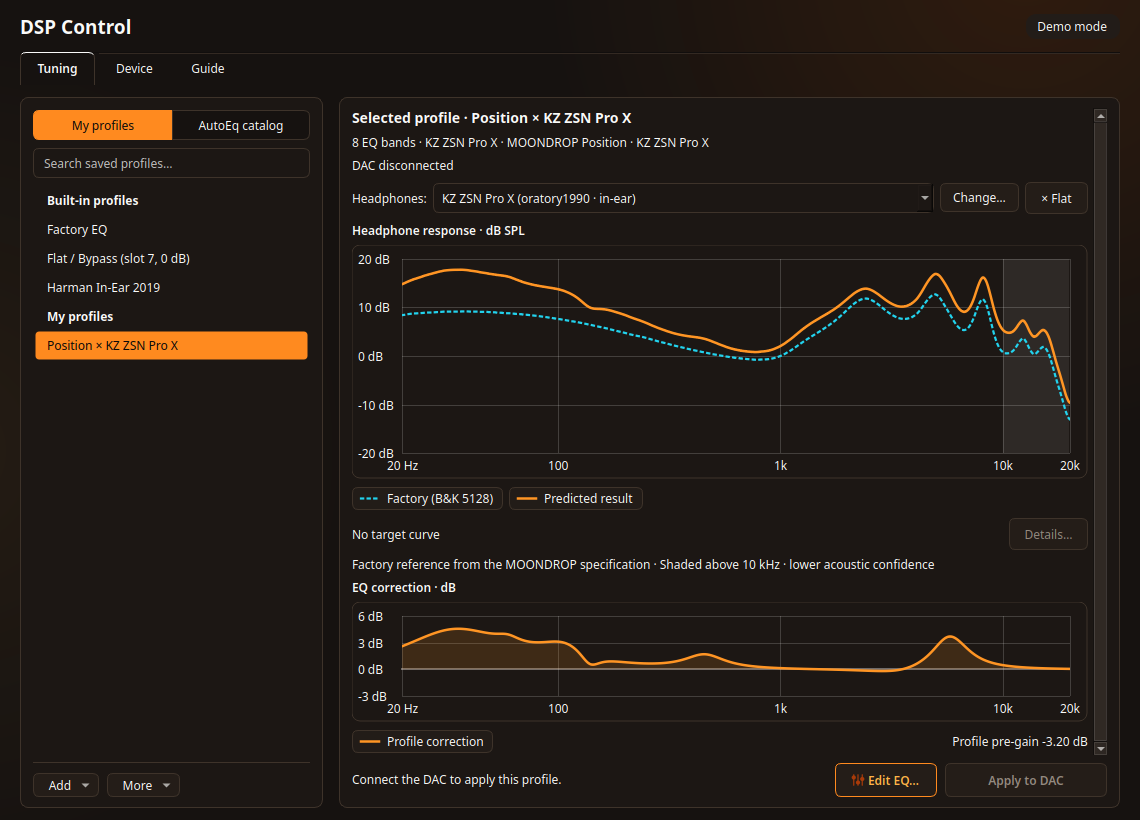
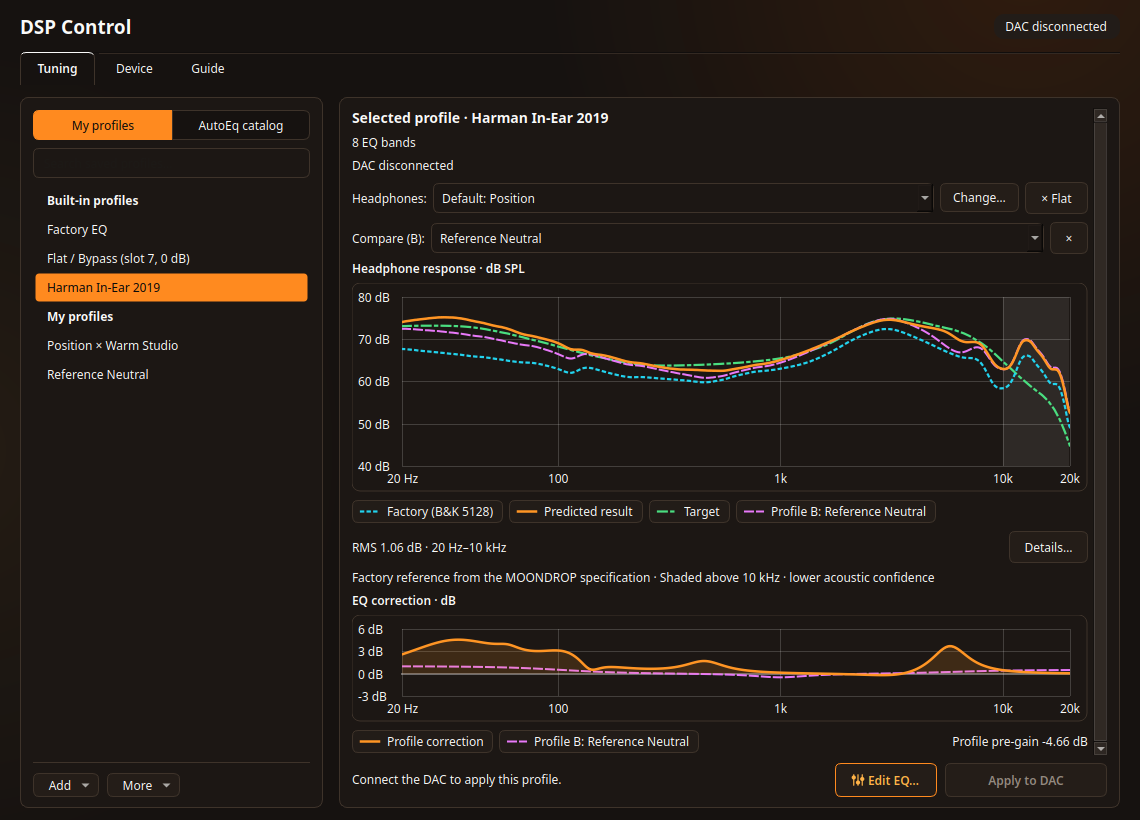
docs: update Guide, READMEs, and screenshots for v0.6.0 Stage 1 (#38)

diff --git a/README.pl.md b/README.pl.md
@@ -103,12 +103,12 @@ Manifest ([`pl.innovibe.DspControl.json`](pl.innovibe.DspControl.json)) używa `
 | Funkcja | Oficjalny Web Hub | DSP Control |
 |---|---|---|
 | EQ parametryczny (`PK / LSQ / HSQ / LP / HP`) + Pre-gain | Tylko `PK / LP / HP` (półki wyłączone na Position) | **Odblokowuje `LSQ / HSQ` (`1× LSQ + 1× HSQ + 6× PK`), natywny USB HID `0x4B`, offline** |
-| Interaktywny wykres EQ i zapas do przesteru | Tylko suwaki | **Przeciąganie punktów na wykresie (Hz/dB/kółko Q) + auto pre-gain + Wyzeruj EQ** |
-| Odsłuch na żywo (`Live preview`) | Tak | **Tak — auto-odsłuch + `A/B: Bypass` (płaski 0 dB) + bezpieczne przywracanie** |
+| Interaktywny wykres EQ i zapas do przesteru | Tylko suwaki | **Przeciąganie punktów na wykresie (Hz/dB/kółko Q), Mute/Solo pasm, szybkie Makro barwy (`Bas / Średnica / Góra / Tilt`), auto pre-gain + Wyzeruj EQ** |
+| Odsłuch na żywo (`Live preview`) | Tak | **Tak — auto-odsłuch + wybór celu `A/B` (`Flat 0 dB` / `Stan wyjściowy` / `Profil B`) + bezpieczne przywracanie** |
 | Wbudowany optymalizator AutoEq | Podstawowe presety | **Indeks 6800+ offline + Bas / Tilt / Tylko PK + zakres + Drag & Drop** |
-| Porównanie z obecnym DSP i interaktywna legenda | Nie | **Krzywa `Obecnie w DSP` na obu wykresach, ukrywanie/solo pigułek, `Hz / dB / Δ dB`** |
+| Porównanie z obecnym DSP i Profilem B | Nie | **Krzywa `Obecnie w DSP` lub dowolny `Profil B` na obu wykresach, ukrywanie/solo pigułek, `Hz / dB / Δ dB`** |
 | Wzmocnienie wyjścia (`-18…0 dB`) i mikrofonu | Tak | **Tak, z opcjonalnym zapisem w profilu** |
-| Biblioteka lokalna vs flash DAC-a | Ograniczone | **Pełna biblioteka, pamięć profilu per DAC, auto-sync słuchawek, wklejanie/import Equalizer APO** |
+| Biblioteka lokalna vs flash DAC-a | Ograniczone | **Pełna biblioteka, eksport/import paczek `.zip` (również Drag & Drop), pamięć profilu per DAC, auto-sync słuchawek, wklejanie/import Equalizer APO** |
 | Monitor strumienia UAC2 i próbkowania PipeWire | Nie | **Tak (`44,1–384 kHz` + odczyt głębi bitowej ALSA)** |
 | Weryfikacja zapisu i diagnostyka | Podstawowa | **Weryfikacja przed/po zapisie flash, Przywróć poprzedni, bezrootowy `--diagnose`** |
 | Motywy, język, Przewodnik i aktualizacje | Tylko web | **Motywy InnoVibe Ciemny i Jasny, PL / EN, stopka aktualizacji i kopiowanie komendy Flatpak** |
@@ -118,7 +118,7 @@ Manifest ([`pl.innovibe.DspControl.json`](pl.innovibe.DspControl.json)) używa `
 ## Zrzuty ekranu
 
 ### 1. Strojenie i podgląd charakterystyki
-**Wybrany profil** i **Aktywny w DAC-u** są wyraźnie rozdzielone, dopóki nie klikniesz **Wgraj do DAC-a** (po zapisie przycisk zamienia się w **Przywróć poprzedni**). **Charakterystyka słuchawek** porównuje krzywą **Fabryczną (B&K 5128)**, **Cel**, **Przewidywany wynik** oraz **Obecnie w DSP**, a **Korekcja EQ** pokazuje odpowiedź filtrów przy `96 kHz`.
+**Wybrany profil** i **Aktywny w DAC-u** są wyraźnie rozdzielone, dopóki nie klikniesz **Wgraj do DAC-a** (po zapisie przycisk zamienia się w **Przywróć poprzedni**). **Charakterystyka słuchawek** porównuje krzywą **Fabryczną (B&K 5128)**, **Cel**, **Przewidywany wynik** oraz **Obecnie w DSP** (lub dowolny **Profil B** wybrany z paska **Porównaj (B)** albo z menu kontekstowego listy), a **Korekcja EQ** pokazuje odpowiedź filtrów przy `96 kHz`. Przez **Dodaj ▾ / Więcej ▾** (lub przeciągnięcie pliku `.zip`) wyeksportujesz i zaimportujesz całą bibliotekę profili.
 
 <details>
 <summary>Strojenie w małym oknie (640×620)</summary>
@@ -137,7 +137,7 @@ Filtruj tysiące pomiarów według **Źródła**, **Typu słuchawek** i **Zakres
 <br>
 
 ### 3. Edytor EQ i odsłuch na żywo
-Przeciągaj punkty bezpośrednio na wykresie **Korekcja EQ**, zmieniaj Q kółkiem myszy i użyj **Ustaw automatycznie** do doboru pre-gainu. Przy podłączonym DAC-u **Odsłuch na żywo** uruchamia się automatycznie i bezpiecznie przywraca stan po anulowaniu.
+Przeciągaj punkty bezpośrednio na wykresie **Korekcja EQ**, zmieniaj Q kółkiem myszy, wyciszaj (`Wł.`) lub tymczasowo podsłuchuj (`S`) wybrane pasma, kształtuj brzmienie w zwijanym panelu **Szybka korekta barwy (Makro)** (`Bas / Średnica / Góra / Tilt`) i użyj **Ustaw automatycznie** do doboru pre-gainu. Przy podłączonym DAC-u **Odsłuch na żywo** uruchamia się automatycznie, pozwala porównywać przez **A/B** z **Flat**, **Stanem wyjściowym** lub **Profilem B** i bezpiecznie przywraca stan po anulowaniu.
 
 ![Edytor EQ](docs/screenshots/pl/04-eq-editor.png)
 

diff --git a/README.md b/README.md
@@ -103,12 +103,12 @@ The manifest ([`pl.innovibe.DspControl.json`](pl.innovibe.DspControl.json)) requ
 | Feature | Official Web Hub | DSP Control |
 |---|---|---|
 | Parametric EQ (`PK / LSQ / HSQ / LP / HP`) + Pre-gain | `PK / LP / HP` only (shelves disabled on Position) | **Unlocks `LSQ / HSQ` (`1× LSQ + 1× HSQ + 6× PK`), native USB HID `0x4B`, offline** |
-| Interactive EQ Curve & Headroom | Sliders only | **Drag points on plot (Freq / Gain / Wheel Q) + Auto Headroom & 1-click Zero EQ** |
-| Live Auditioning | Yes | **Yes, auto-enabled + `A/B: Bypass` flat compare + safe restore** |
+| Interactive EQ Curve & Headroom | Sliders only | **Drag points on plot (Freq / Gain / Wheel Q), band Mute/Solo, Quick Macro tone shaping (`Bass / Mids / Treble / Tilt`), Auto Headroom & 1-click Zero EQ** |
+| Live Auditioning | Yes | **Yes, auto-enabled + `A/B` target selector (`Flat 0 dB` / `Initial` / `Profile B`) + safe restore** |
 | Built-in AutoEq Optimizer | Basic presets | **6,800+ offline index + Bass boost / Tilt / PK-only + fit range + Drag & Drop** |
-| Live DSP Comparison & Interactive Legend | No | **Compare against Current in DSP on both plots, toggle/solo pills, `Hz / dB / Δ dB`** |
+| Live DSP & Profile Comparison | No | **Compare against Current in DSP or any Profile B on both plots, toggle/solo pills, `Hz / dB / Δ dB`** |
 | Output Gain (`-18…0 dB`) & Mic Gain | Yes | **Yes, optional per-profile bundling** |
-| Local Library vs DAC Flash | Limited | **Full local library, per-DAC last profile & headphone auto-sync, Equalizer APO paste/import/export** |
+| Local Library vs DAC Flash | Limited | **Full local library, `.zip` bundle export/import (with Drag & Drop), per-DAC last profile & headphone auto-sync, Equalizer APO paste/import/export** |
 | PipeWire UAC2 Monitor & Sample Rate | No | **Yes (`44.1–384 kHz` + ALSA bit-depth readout)** |
 | Readback Verification & Diagnostics | Basic | **Pre/post-flash verification, 1-click Restore previous, rootless `--diagnose`** |
 | Themes, Language, Guide & Updates | Web only | **InnoVibe Dark & Light, EN / PL, Guide footer with update check & Flatpak command copy** |
@@ -118,7 +118,7 @@ The manifest ([`pl.innovibe.DspControl.json`](pl.innovibe.DspControl.json)) requ
 ## Screenshots
 
 ### 1. Tuning & Frequency Response Preview
-**Selected profile** and **Active on DAC** stay clearly separated until you click **Apply to DAC** (which becomes **Restore previous** after flashing). **Headphone response** compares **Factory (B&K 5128)**, **Target**, **Predicted result**, and **Current in DSP**; **EQ correction** shows the electrical filter curve at `96 kHz` with interactive toggle/solo legend pills and `Hz / dB / Δ dB` hover readouts.
+**Selected profile** and **Active on DAC** stay clearly separated until you click **Apply to DAC** (which becomes **Restore previous** after flashing). **Headphone response** compares **Factory (B&K 5128)**, **Target**, **Predicted result**, and **Current in DSP** (or any **Compare (B)** profile selected via the dropdown or right-click menu); **EQ correction** shows the electrical filter curve at `96 kHz` with interactive toggle/solo legend pills and `Hz / dB / Δ dB` hover readouts. Use **Add ▾ / More ▾** (or drop a `.zip` file) to export and import full profile bundles.
 
 <details>
 <summary>Compact Tuning view (640×620)</summary>
@@ -137,7 +137,7 @@ Filter thousands of IEM and over-ear measurements by **Source**, **Headphone typ
 <br>
 
 ### 3. Parametric EQ Editor & Live Preview
-Drag handles directly on the **EQ correction** plot, scroll to adjust Q, and click **Set automatically** for headroom. With a DAC connected, **Live preview** lets you audition tweaks in real time and restores your previous settings if canceled.
+Drag handles directly on the **EQ correction** plot, scroll to adjust Q, mute (`On`) or temporarily `Solo` (`S`) individual bands, shape overall tone with the collapsible **Quick tone shaping (Macro)** card (`Bass / Mids / Treble / Tilt`), and click **Set automatically** for headroom. With a DAC connected, **Live preview** lets you audition tweaks in real time, compare against **Flat**, **Initial**, or **Profile B** via **A/B**, and restores your previous settings if canceled.
 
 ![EQ Editor](docs/screenshots/04-eq-editor.png)
 
